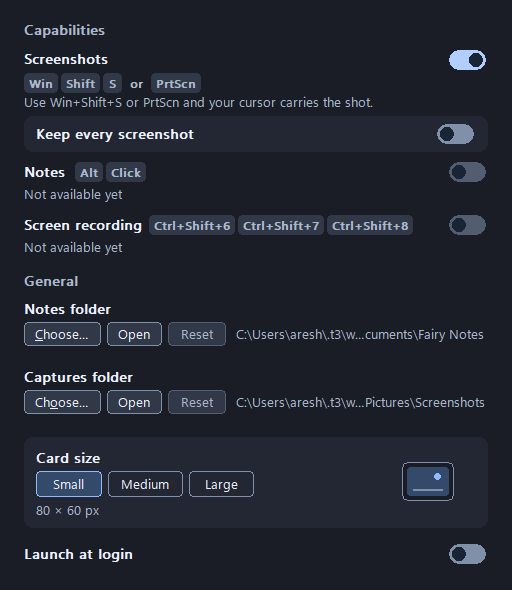
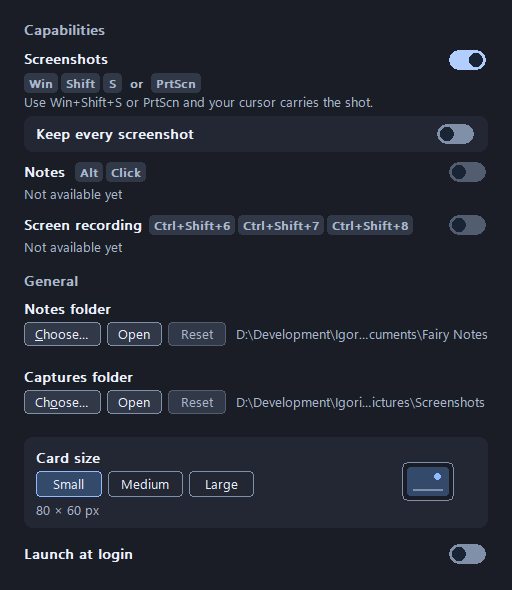
Plan configurable shortcuts and add a stub

Changed region(s): [[0.4375, 0.5492, 0.9688, 0.5797], [0.4375, 0.6712, 0.7188, 0.7017]]

diff --git a/crates/app/src/lib.rs b/crates/app/src/lib.rs
@@ -17,6 +17,7 @@ pub mod overlay;
 pub mod saver;
 pub mod settings;
 pub mod settings_window;
+pub mod shortcuts;
 pub mod snip;
 pub mod state;
 pub mod tray;

diff --git a/crates/app/src/shortcuts.rs b/crates/app/src/shortcuts.rs
@@ -1,0 +1,1 @@
+// Not written yet.

diff --git a/ROADMAP.md b/ROADMAP.md
@@ -206,6 +206,36 @@ The pile should not get in the user's way. The default card is 80 x 60 logical p
   value passed to the renderer (in `Scene`) and to the follower, which uses the card
   box to flip at screen edges. The hint text size does not change.
 
+## Shortcuts the user chooses
+
+Every action that has a keyboard shortcut can be changed, or left without one, in the
+settings window. Stored as `shortcuts` in `settings.json`; a change applies at once.
+
+| Action | Default | Available |
+|---|---|---|
+| Restore last screenshot | none | now |
+| Discard top card (same as one shake) | none | now |
+| Discard all cards | none | now |
+| Open settings | none | now |
+| New note at the cursor | none (the gesture is hold Alt and click) | with M7 |
+| Start or stop recording | Ctrl+Shift+6 | with M8 |
+| Pen | Ctrl+Shift+7 | with M8 |
+| Highlighter | Ctrl+Shift+8 | with M8 |
+
+- Taking a screenshot uses the Windows shortcuts (`Win+Shift+S`, `PrtScn`, `Alt+PrtScn`,
+  `Win+PrtScn`). The app only notices them; they are changed in Windows, not here. The
+  settings window says so next to the Screenshots row.
+- A shortcut is one key with at least one of Ctrl, Alt, Shift, Win. Function keys may be
+  used alone. Keys Windows reserves (for example `Win+L`, `Ctrl+Alt+Del`, `Alt+Tab`) and
+  the screenshot keys are refused, with the reason shown.
+- Two actions cannot share a shortcut. If Windows refuses to register one because another
+  program holds it, the row shows that and the old shortcut stays.
+- Each row has a recorder: click it, press the keys, and it is set; Esc cancels, Backspace
+  clears.
+- Shortcuts are global hotkeys (`RegisterHotKey`), owned by one thread with a message
+  loop. The keys used while drawing (undo, clear, put the pen down) are only active
+  during a recording and are not global.
+
 ## Milestones
 
 Each one ends with a check that must pass before the next starts.
@@ -258,6 +288,7 @@ This is the first usable version.
 ### M5. Settings and guide
 
 Settings JSON, settings window (capability switches, the two folder pickers, card size,
+shortcuts,
 launch at login), first-run guide. The folder settings exist from M3 as JSON values; this adds
 the pickers.
 
